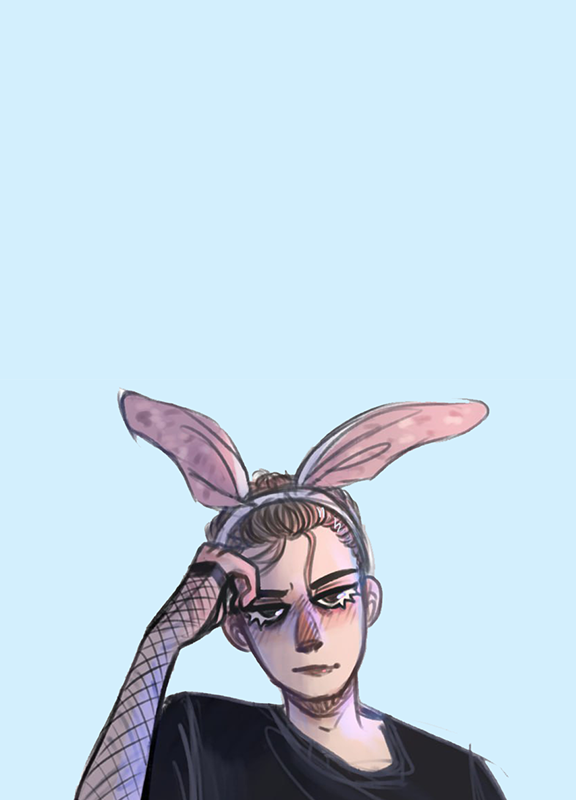
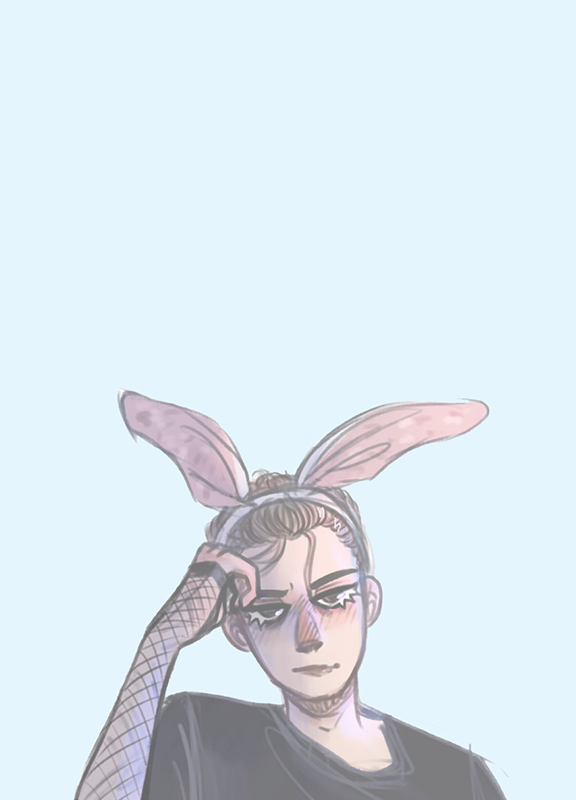
Main_bg_min changed

Changed region(s): [[0.125, 0.4688, 0.875, 1.0]]

diff --git a/css/style.min.css b/css/style.min.css
@@ -1,1 +1,1 @@
-@import"https://fonts.googleapis.com/css2?family=Poppins:wght@500;700&display=swap";*{-webkit-box-sizing:border-box;box-sizing:border-box;font-family:"Poppins",sans-serif;margin:0;padding:0;scroll-behavior:smooth}a{text-decoration:none}.container{width:1140px;margin:0 auto}.title{font-weight:700;font-size:36px;line-height:60px}.title_fz14{font-size:14px;line-height:21px}.title_fz16{font-size:16px;line-height:24px}.title_fz20{font-size:20px;line-height:30px}.title_fz48{font-size:48px;line-height:60px}.title_section-subtitle{text-align:center;padding-left:10px;position:relative;padding-left:0}.title_section-subtitle:before{content:"";z-index:-1;display:block;width:36px;height:36px;background-color:#aca5d8;border-radius:100%;position:absolute;top:-25%;left:0}.title_section-subtitle::before{left:50%;-webkit-transform:translateX(-50%);transform:translateX(-50%)}.title_section-title{text-align:center}.title_section-title::after{content:"";display:block;height:3px;width:60px;background-color:#aca5d8;margin:0 auto;margin-top:28px}.btn{background-color:#aca5d8;-webkit-box-shadow:0px 4px 4px 0px rgba(0,0,0,.15);box-shadow:0px 4px 4px 0px rgba(0,0,0,.15);padding:12px 25px;border:none;-webkit-transition:.5s all;transition:.5s all}.btn:hover{background-color:#c9c3ec}.side-panel{position:fixed;display:-webkit-box;display:-ms-flexbox;display:flex;left:50px;top:25%;z-index:1;-webkit-box-orient:vertical;-webkit-box-direction:reverse;-ms-flex-direction:column-reverse;flex-direction:column-reverse;-webkit-box-pack:justify;-ms-flex-pack:justify;justify-content:space-between;-webkit-box-align:center;-ms-flex-align:center;align-items:center;height:340px}.side-panel .side-panel__icon{width:20px;height:20px}.side-panel .side-panel__divider{height:70px;width:2px;background-color:#000}.side-panel .side-panel__text{height:150px;width:25px}.side-panel .side-panel__text span{display:block;width:150px;-webkit-transform:rotate(-90deg) translate(-30%, -395%);transform:rotate(-90deg) translate(-30%, -395%)}.promo{min-height:100vh;position:relative;background:url(../img/main_bg.jpg) center center/cover no-repeat;padding-top:205px}.promo .promo__title{margin-top:9px;width:530px}.promo .promo__subtitle{z-index:0;padding-left:10px;position:relative}.promo .promo__subtitle:before{content:"";z-index:-1;display:block;width:36px;height:36px;background-color:#aca5d8;border-radius:100%;position:absolute;top:-25%;left:0}.promo .promo__btns{margin-top:25px;display:-webkit-box;display:-ms-flexbox;display:flex;width:248px;-webkit-box-align:center;-ms-flex-align:center;align-items:center;-webkit-box-pack:justify;-ms-flex-pack:justify;justify-content:space-between}.promo .promo__btns .promo__link{color:#000;text-decoration:none;font-weight:bold}.hamburger{position:absolute;right:30px;top:20px;height:21px;display:-webkit-box;display:-ms-flexbox;display:flex;-webkit-box-orient:vertical;-webkit-box-direction:normal;-ms-flex-direction:column;flex-direction:column;-webkit-box-pack:justify;-ms-flex-pack:justify;justify-content:space-between;-webkit-box-align:end;-ms-flex-align:end;align-items:flex-end;cursor:pointer}.hamburger span{display:block;width:30px;height:3px;background-color:#151812}.hamburger span.long{width:36px}.menu{position:fixed;opacity:0;visibility:hidden;height:100vh;width:100%;top:0;left:-100%;z-index:10;-webkit-transition:all .5s;transition:all .5s}.menu .menu__block{position:relative;padding-top:140px;padding-left:75px;width:345px;height:100%;background-color:#aca5d8;z-index:10}.menu .menu__block .menu__close{position:absolute;top:24px;right:25px;cursor:pointer}.menu .menu__block .menu__list{display:-webkit-box;display:-ms-flexbox;display:flex;-webkit-box-orient:vertical;-webkit-box-direction:normal;-ms-flex-direction:column;flex-direction:column;-webkit-box-pack:justify;-ms-flex-pack:justify;justify-content:space-between;height:291px}.menu .menu__block .menu__list .menu__link{position:relative;text-transform:uppercase;font-size:24px;font-weight:700;line-height:36px}.menu .menu__block .menu__list .menu__link a{color:#fff}.menu .menu__block .menu__list .menu__link::before{content:"";display:block;position:absolute;height:15px;width:15px;border:#000 1px solid;border-radius:100%;top:50%;-webkit-transform:translateY(-50%);transform:translateY(-50%);left:-35px;-webkit-transition:.3s all;transition:.3s all}.menu .menu__block .menu__list .menu__link:hover::before{background-color:#fff;border-color:#fff}.menu .menu__social{width:90px;height:20px;display:-webkit-box;display:-ms-flexbox;display:flex;-webkit-box-pack:justify;-ms-flex-pack:justify;justify-content:space-between;position:absolute;bottom:50px;left:50%;-webkit-transform:translateX(-50%);transform:translateX(-50%)}.menu .menu__social svg{-webkit-transition:all .5s;transition:all .5s}.menu .menu__social svg:hover{scale:1.3}.menu .menu__overlay{-webkit-transition:.5s all;transition:.5s all;position:fixed;top:0;left:0;width:100%;height:100%;background-color:#fff;opacity:.75}.menu.active{opacity:1;visibility:visible;left:0}.menu.active .menu__block{left:0}.about{padding-top:120px}.about .container{display:grid;grid-template-columns:400px 570px;grid-template-rows:minmax(240px, auto) auto;-webkit-column-gap:70px;-moz-column-gap:70px;column-gap:70px;row-gap:40px}.about .container .about__img{width:100%;height:100%;-o-object-fit:cover;object-fit:cover;grid-row:1/3}.about .container .about__main .about__title{margin-top:6px}.about .container .about__main .about__title::after{content:"";display:block;background-color:#aca5d8;height:3px;width:60px;margin-top:4px}.about .container .about__main .about__subtitle{padding-left:10px;position:relative}.about .container .about__main .about__subtitle:before{content:"";z-index:-1;display:block;width:36px;height:36px;background-color:#aca5d8;border-radius:100%;position:absolute;top:-25%;left:0}.about .container .about__main .about__text{margin-top:20px;color:#000;font-size:14px;font-weight:500;line-height:20px}.about .container .about__skills{display:grid;grid-template:repeat(2, minmax(115px, auto))/repeat(2, 1fr);grid-auto-rows:1fr;-webkit-column-gap:50px;-moz-column-gap:50px;column-gap:50px}.about .container .about__skills .about__item{position:relative;padding-left:10px;position:relative}.about .container .about__skills .about__item:before{content:"";z-index:-1;display:block;width:36px;height:36px;background-color:#aca5d8;border-radius:100%;position:absolute;top:-25%;left:0}.about .container .about__skills .about__item .about__icon{position:absolute;top:15px;left:15px}.about .container .about__skills .about__item .about__name{padding-left:60px}.about .container .about__skills .about__item .about__desc{margin-top:6px;padding-left:60px;color:#000;font-size:11.4px;font-weight:500;line-height:18px}.about .container .about__skills .about__item::before{top:0}.about .container .about__skills .about__item:nth-child(2) .about__icon{left:18px}.exp{padding-top:126px}.exp .exp__wrapper{display:grid;margin-top:60px;grid-template-columns:repeat(2, 1fr);grid-template-rows:minmax(360px, auto);-webkit-column-gap:145px;-moz-column-gap:145px;column-gap:145px}.exp .exp__wrapper .exp__column{padding-left:45px}.exp .exp__wrapper .exp__column .exp__name{position:relative}.exp .exp__wrapper .exp__column .exp__name::before{content:"";display:block;height:15px;width:15px;background-color:#aca5d8;border-radius:100%;position:absolute;left:-45px;top:50%;-webkit-transform:translateY(-50%);transform:translateY(-50%)}.exp .exp__wrapper .exp__column .exp__item{margin-top:45px;width:360px;padding-left:10px;position:relative;padding-left:0;min-height:123px}.exp .exp__wrapper .exp__column .exp__item:before{content:"";z-index:-1;display:block;width:36px;height:36px;background-color:#aca5d8;border-radius:100%;position:absolute;top:-25%;left:0}.exp .exp__wrapper .exp__column .exp__item .exp__img{position:absolute;top:15px;left:15px}.exp .exp__wrapper .exp__column .exp__item .exp__type::before{content:"";display:block;position:absolute;height:1px;width:42px;background-color:#000;top:18px;left:-37px;z-index:-1}.exp .exp__wrapper .exp__column .exp__item .exp__type,.exp .exp__wrapper .exp__column .exp__item .exp__descr{padding-left:56px}.exp .exp__wrapper .exp__column .exp__item .exp__descr,.exp .exp__wrapper .exp__column .exp__item .exp__text{color:#000;font-size:12px;font-weight:500;line-height:18px}.exp .exp__wrapper .exp__column .exp__item .exp__text{margin-top:12px}.exp .exp__wrapper .exp__column .exp__item .exp__text::before{content:"";display:block;position:absolute;height:140%;width:1px;background-color:#000;left:-37.5px;top:-53px;z-index:-1}.exp .exp__wrapper .exp__column .exp__item::before{left:0;top:0;z-index:0}.skills{padding-top:120px}.skills .skills__wrapper{margin-top:60px;display:grid;grid-template-rows:270px;grid-auto-rows:270px;grid-template-columns:repeat(4, 270px);-webkit-box-pack:justify;-ms-flex-pack:justify;justify-content:space-between}.skills .skills__wrapper .skills__item{border:1px solid #000;padding:30px 30px 25px 30px}.skills .skills__wrapper .skills__item .skills__name{margin-top:20px;font-size:14px;line-height:21px}.skills .skills__wrapper .skills__item .skills__desc{color:#000;font-size:12px;font-weight:500;margin-top:15px;line-height:18px}.skills .skills__progress{margin-top:120px;display:grid;grid-template-columns:repeat(3, 350px);grid-template-rows:70px;grid-auto-rows:70px;-webkit-column-gap:45px;-moz-column-gap:45px;column-gap:45px;row-gap:30px}.skills .skills__progress .skills__bar{position:relative;padding-top:8px}.skills .skills__progress .skills__bar .skills__heading{color:#000;font-size:14px;font-weight:700;line-height:21px;padding-left:10px;position:relative}.skills .skills__progress .skills__bar .skills__heading:before{content:"";z-index:-1;display:block;width:36px;height:36px;background-color:#aca5d8;border-radius:100%;position:absolute;top:-25%;left:0}.skills .skills__progress .skills__bar .skills__heading::before{top:-8px}.skills .skills__progress .skills__bar .skills__percent{position:absolute;top:8px;left:316px;font-size:14px;font-weight:500;line-height:21px}.skills .skills__progress .skills__bar .skills__line{margin-top:27px;width:350px;height:14px;border-radius:4px;background:#e8e4de}.skills .skills__progress .skills__bar .skills__line span{display:block;height:14px;border-radius:4px;background:#aca5d8}.portfolio{padding-top:120px}.portfolio .portfolio__wrapper{margin-top:60px;display:grid;grid-template:repeat(2, 280px)/repeat(4, 280px);grid-auto-rows:280px;gap:5px}.portfolio .portfolio__wrapper .portfolio__item_horizontal{grid-column:2/4}.portfolio .portfolio__wrapper .portfolio__item_vertical{grid-row:1/3;grid-column:4/5}.portfolio .portfolio__wrapper .portfolio__item img{width:100%;height:100%;-o-object-fit:cover;object-fit:cover;-webkit-transition:all .5s;transition:all .5s;-webkit-filter:brightness(50%);filter:brightness(50%)}.portfolio .portfolio__wrapper .portfolio__item img:hover{scale:1.05;-webkit-filter:brightness(100%);filter:brightness(100%)}.price{padding-top:60px}.price .title_section-subtitle::after{content:"";display:block;height:3px;width:60px;background-color:#aca5d8;margin:0 auto;margin-top:28px}.price .title_section-subtitle::before{top:-10%}.price ul{padding:0 50px;margin-top:60px;display:grid;grid-template:repeat(3, 44px)/repeat(2, 366px);-webkit-box-pack:justify;-ms-flex-pack:justify;justify-content:space-between;row-gap:15px}.price ul li{-webkit-transition:.5s all;transition:.5s all;margin-left:25px}.price ul li .price__header{position:relative;display:-webkit-box;display:-ms-flexbox;display:flex;-webkit-box-pack:justify;-ms-flex-pack:justify;justify-content:space-between}.price ul li .price__header .price__digit{color:#000;font-size:14px;font-weight:700;line-height:21px}.price ul li .price__header::before{content:"";display:block;height:15px;width:15px;background-color:#aca5d8;border-radius:100%;position:absolute;left:-25px;top:3.5px}.price ul li .price__desc{margin-top:5px;color:#000;font-size:12px;font-weight:500;line-height:18px}.price ul li:hover{scale:1.05}.contacts{padding:120px 0 90px 0}.contacts .container{padding:0 35px 0 52px;display:grid;grid-template-columns:400px 585px;-webkit-box-pack:justify;-ms-flex-pack:justify;justify-content:space-between}.contacts .container .contacts__photo{width:100%;height:100%;-o-object-fit:cover;object-fit:cover}.contacts .container .contacts__main .title_section-subtitle{margin-top:6px;-moz-text-align-last:left;text-align-last:left;padding-left:10px}.contacts .container .contacts__main .title_section-subtitle::before{-webkit-transform:none;transform:none;left:0}.contacts .container .contacts__main .title_section-title{-moz-text-align-last:left;text-align-last:left;margin-top:6px}.contacts .container .contacts__main .title_section-title::after{margin:1px 0 0 0}.contacts .container .contacts__main .contacts__way{margin-top:20px;color:#000;font-size:14px;font-weight:700;line-height:19px}.contacts .container .contacts__main .contacts__social{margin-top:20px;height:30px;width:135px;display:-webkit-box;display:-ms-flexbox;display:flex;-webkit-box-pack:justify;-ms-flex-pack:justify;justify-content:space-between}.contacts .container .contacts__main .contacts__leave{margin-top:20px;color:#000;font-size:14px;font-weight:700;line-height:21px}.contacts .container .contacts__main .contacts__form{margin-top:30px;display:grid;grid-template:45px 190px 45px/repeat(2, 280px);-webkit-box-pack:justify;-ms-flex-pack:justify;justify-content:space-between;row-gap:30px}.contacts .container .contacts__main .contacts__form label{position:absolute;height:18px;background-color:#fff;left:20px;font-size:12px;line-height:18px;top:-9px;text-align:center;padding:0 8px}.contacts .container .contacts__main .contacts__form .contacts__input{position:relative}.contacts .container .contacts__main .contacts__form .contacts__input input{border:1px solid #000;width:100%;height:100%;padding:0 20px;color:#000;font-size:12px;font-weight:500}.contacts .container .contacts__main .contacts__form .contacts__textarea{position:relative;grid-column:1/3}.contacts .container .contacts__main .contacts__form .contacts__textarea textarea{border:1px solid #000;height:100%;width:100%;resize:none;padding:20px}.contacts .container .contacts__main .contacts__form .btn{color:#000;font-size:14px;font-weight:700;line-height:21px}.contacts .container .contacts__main .contacts__form .contacts__wrapper{grid-column:1/3;display:grid;grid-template-columns:repeat(2, auto);-webkit-column-gap:35px;-moz-column-gap:35px;column-gap:35px;-webkit-box-align:center;-ms-flex-align:center;align-items:center}.contacts .container .contacts__main .contacts__form .contacts__wrapper .contacts__privacy{display:-webkit-box;display:-ms-flexbox;display:flex}.contacts .container .contacts__main .contacts__form .contacts__wrapper .contacts__privacy input{margin-right:10px}.contacts .container .contacts__main .contacts__form .contacts__wrapper .contacts__privacy span{color:#000;font-size:12px;font-weight:500}@media(max-width: 1440px){.side-panel{display:none}}@media(max-width: 1200px){.container{max-width:960px}.about .container{grid-template-columns:400px 520px;-webkit-column-gap:50px;-moz-column-gap:50px;column-gap:50px}.skills .skills__wrapper{grid-template:repeat(2, 270px)/repeat(2, 270px);-webkit-box-pack:center;-ms-flex-pack:center;justify-content:center;gap:100px}.skills .skills__progress{grid-template:repeat(2, 70px)/repeat(2, 350px);-webkit-box-pack:center;-ms-flex-pack:center;justify-content:center}.portfolio .container .portfolio__wrapper{grid-template:repeat(2, 280px)/repeat(3, 280px);-webkit-box-pack:center;-ms-flex-pack:center;justify-content:center}.portfolio .container .portfolio__wrapper .portfolio__item_horizontal,.portfolio .container .portfolio__wrapper .portfolio__item_vertical{grid-row:unset;grid-column:unset}.contacts .container{padding:0;grid-template-columns:300px 585px}}@media(max-width: 992px){.container{max-width:720px}.about{padding-top:40px}.about .about__title{font-size:30px}.about .container{row-gap:30px;-webkit-column-gap:30px;-moz-column-gap:30px;column-gap:30px;grid-template-columns:300px 400px}.about .container .about__skills{grid-template:repeat(3, 1fr)/auto;row-gap:30px}.exp{padding-top:40px}.exp .title_section-title{margin-top:26px;font-size:28px;line-height:30px}.exp .exp__wrapper{margin-top:0px;-webkit-column-gap:20px;-moz-column-gap:20px;column-gap:20px}.exp .exp__wrapper .exp__column{margin-top:40px}.exp .exp__wrapper .exp__column .exp__item{width:unset}.skills{padding-top:40px}.skills .title_section-title{margin-top:26px;font-size:24px;line-height:36px}.skills .title_section-title::after{margin-top:15px}.skills .skills__wrapper{grid-template:auto/270px;-webkit-box-pack:center;-ms-flex-pack:center;justify-content:center;gap:20px;margin-top:20px}.skills .skills__progress{grid-template:repeat(3, 70px)/100%;justify-items:center;margin-top:40px}.portfolio .container .portfolio__wrapper{grid-template:repeat(3, 280px)/repeat(2, 280px);-webkit-box-pack:center;-ms-flex-pack:center;justify-content:center}.price .container ul{-webkit-box-pack:unset;-ms-flex-pack:unset;justify-content:unset;grid-template:auto/100%}.contacts .container{grid-template:unset;-webkit-box-pack:center;-ms-flex-pack:center;justify-content:center}.contacts .container .contacts__photo{display:none}}@media(max-width: 768px){.container{max-width:540px}.promo .promo__title{width:335px;font-size:30px;line-height:50px}.about .container{grid-template:340px auto auto/100%}.about .container .about__img{grid-row:1/2}.about .container .about__skills{row-gap:40px}.exp .exp__wrapper{grid-template:auto/100%}.exp .exp__wrapper .exp__column .exp__name{margin-bottom:35px}.exp .exp__wrapper .exp__column .exp__item{margin-top:10px}.portfolio{padding-top:47px}.portfolio .container .title_section-title{font-size:24px;line-height:36px;margin-top:26px}.portfolio .container .title_section-title::after{margin-top:15px}.portfolio .container .portfolio__wrapper{margin-top:40px;grid-template:auto/280px;-webkit-box-pack:center;-ms-flex-pack:center;justify-content:center;row-gap:20px}.portfolio .container .portfolio__wrapper .portfolio__item .portfolio__img{-webkit-filter:brightness(100%);filter:brightness(100%)}.price{padding-top:40px}.price .container .title_section-subtitle::after{margin-top:21px}.price .container ul{margin-top:20px;row-gap:20px;-webkit-box-pack:unset;-ms-flex-pack:unset;justify-content:unset;grid-template:auto/100%}.contacts{padding:40px 0 50px 0}.contacts .container .title_section-title{font-size:24px}.contacts .container .contacts__main .contacts__form{grid-template:45px 45px 145px/100%}.contacts .container .contacts__main .contacts__form .contacts__textarea{grid-column:unset}.contacts .container .contacts__main .contacts__form .contacts__wrapper{grid-column:unset;grid-template:auto/100%;row-gap:20px}.contacts .container .contacts__main .contacts__form .contacts__wrapper .btn{width:220px;margin:0 auto}.contacts .container .contacts__main .contacts__form .contacts__wrapper .contacts__privacy{grid-row:1/2;margin:0 auto;line-height:18px;width:180px}}@media(max-width: 576px){.container{width:100%;padding:0 10px}.menu .menu__block{width:260px;padding-left:55px}.promo{background:url(../img/main_bg_min.png) center center/cover no-repeat}.promo .hamburger{right:20px}.promo .promo__title{width:300px;line-height:39px}.promo .promo__btns{margin-top:32px}.about .container{row-gap:20px}.about .container .about__title{font-size:24px}.about .container .about__skills{row-gap:20px}.skills .title_section-title{width:210px;margin:0 auto;margin-top:26px}.skills .skills__progress{row-gap:40px}.skills .skills__progress .skills__bar{width:300px}.skills .skills__progress .skills__bar .skills__line{width:300px}.skills .skills__progress .skills__bar .skills__percent{left:264px}.price .container ul{padding:0}.contacts .container{padding:0 10px}}
+@import"https://fonts.googleapis.com/css2?family=Poppins:wght@500;700&display=swap";*{-webkit-box-sizing:border-box;box-sizing:border-box;font-family:"Poppins",sans-serif;margin:0;padding:0;scroll-behavior:smooth}a{text-decoration:none}.container{width:1140px;margin:0 auto}.title{font-weight:700;font-size:36px;line-height:60px}.title_fz14{font-size:14px;line-height:21px}.title_fz16{font-size:16px;line-height:24px}.title_fz20{font-size:20px;line-height:30px}.title_fz48{font-size:48px;line-height:60px}.title_section-subtitle{text-align:center;padding-left:10px;position:relative;padding-left:0}.title_section-subtitle:before{content:"";z-index:-1;display:block;width:36px;height:36px;background-color:#aca5d8;border-radius:100%;position:absolute;top:-25%;left:0}.title_section-subtitle::before{left:50%;-webkit-transform:translateX(-50%);transform:translateX(-50%)}.title_section-title{text-align:center}.title_section-title::after{content:"";display:block;height:3px;width:60px;background-color:#aca5d8;margin:0 auto;margin-top:28px}.btn{background-color:#aca5d8;-webkit-box-shadow:0px 4px 4px 0px rgba(0,0,0,.15);box-shadow:0px 4px 4px 0px rgba(0,0,0,.15);padding:12px 25px;border:none;-webkit-transition:.5s all;transition:.5s all}.btn:hover{background-color:#c9c3ec}.side-panel{position:fixed;display:-webkit-box;display:-ms-flexbox;display:flex;left:50px;top:25%;z-index:1;-webkit-box-orient:vertical;-webkit-box-direction:reverse;-ms-flex-direction:column-reverse;flex-direction:column-reverse;-webkit-box-pack:justify;-ms-flex-pack:justify;justify-content:space-between;-webkit-box-align:center;-ms-flex-align:center;align-items:center;height:340px}.side-panel .side-panel__icon{width:20px;height:20px}.side-panel .side-panel__divider{height:70px;width:2px;background-color:#000}.side-panel .side-panel__text{height:150px;width:25px}.side-panel .side-panel__text span{display:block;width:150px;-webkit-transform:rotate(-90deg) translate(-30%, -395%);transform:rotate(-90deg) translate(-30%, -395%)}.promo{min-height:100vh;position:relative;background:url(../img/main_bg.jpg) center center/cover no-repeat;padding-top:205px}.promo .promo__title{margin-top:9px;width:530px}.promo .promo__subtitle{z-index:0;padding-left:10px;position:relative}.promo .promo__subtitle:before{content:"";z-index:-1;display:block;width:36px;height:36px;background-color:#aca5d8;border-radius:100%;position:absolute;top:-25%;left:0}.promo .promo__btns{margin-top:25px;display:-webkit-box;display:-ms-flexbox;display:flex;width:248px;-webkit-box-align:center;-ms-flex-align:center;align-items:center;-webkit-box-pack:justify;-ms-flex-pack:justify;justify-content:space-between}.promo .promo__btns .promo__link{color:#000;text-decoration:none;font-weight:bold}.hamburger{position:absolute;right:30px;top:20px;height:21px;display:-webkit-box;display:-ms-flexbox;display:flex;-webkit-box-orient:vertical;-webkit-box-direction:normal;-ms-flex-direction:column;flex-direction:column;-webkit-box-pack:justify;-ms-flex-pack:justify;justify-content:space-between;-webkit-box-align:end;-ms-flex-align:end;align-items:flex-end;cursor:pointer}.hamburger span{display:block;width:30px;height:3px;background-color:#151812}.hamburger span.long{width:36px}.menu{position:fixed;opacity:0;visibility:hidden;height:100vh;width:100%;top:0;left:-100%;z-index:10;-webkit-transition:all .5s;transition:all .5s}.menu .menu__block{position:relative;padding-top:140px;padding-left:75px;width:345px;height:100%;background-color:#aca5d8;z-index:10}.menu .menu__block .menu__close{position:absolute;top:24px;right:25px;cursor:pointer}.menu .menu__block .menu__list{display:-webkit-box;display:-ms-flexbox;display:flex;-webkit-box-orient:vertical;-webkit-box-direction:normal;-ms-flex-direction:column;flex-direction:column;-webkit-box-pack:justify;-ms-flex-pack:justify;justify-content:space-between;height:291px}.menu .menu__block .menu__list .menu__link{position:relative;text-transform:uppercase;font-size:24px;font-weight:700;line-height:36px}.menu .menu__block .menu__list .menu__link a{color:#fff}.menu .menu__block .menu__list .menu__link::before{content:"";display:block;position:absolute;height:15px;width:15px;border:#000 1px solid;border-radius:100%;top:50%;-webkit-transform:translateY(-50%);transform:translateY(-50%);left:-35px;-webkit-transition:.3s all;transition:.3s all}.menu .menu__block .menu__list .menu__link:hover::before{background-color:#fff;border-color:#fff}.menu .menu__social{width:90px;height:20px;display:-webkit-box;display:-ms-flexbox;display:flex;-webkit-box-pack:justify;-ms-flex-pack:justify;justify-content:space-between;position:absolute;bottom:50px;left:50%;-webkit-transform:translateX(-50%);transform:translateX(-50%)}.menu .menu__social svg{-webkit-transition:all .5s;transition:all .5s}.menu .menu__social svg:hover{scale:1.3}.menu .menu__overlay{-webkit-transition:.5s all;transition:.5s all;position:fixed;top:0;left:0;width:100%;height:100%;background-color:#fff;opacity:.75}.menu.active{opacity:1;visibility:visible;left:0}.menu.active .menu__block{left:0}.about{padding-top:120px}.about .container{display:grid;grid-template-columns:400px 570px;grid-template-rows:minmax(240px, auto) auto;-webkit-column-gap:70px;-moz-column-gap:70px;column-gap:70px;row-gap:40px}.about .container .about__img{width:100%;height:100%;-o-object-fit:cover;object-fit:cover;grid-row:1/3}.about .container .about__main .about__title{margin-top:6px}.about .container .about__main .about__title::after{content:"";display:block;background-color:#aca5d8;height:3px;width:60px;margin-top:4px}.about .container .about__main .about__subtitle{padding-left:10px;position:relative}.about .container .about__main .about__subtitle:before{content:"";z-index:-1;display:block;width:36px;height:36px;background-color:#aca5d8;border-radius:100%;position:absolute;top:-25%;left:0}.about .container .about__main .about__text{margin-top:20px;color:#000;font-size:14px;font-weight:500;line-height:20px}.about .container .about__skills{display:grid;grid-template:repeat(2, minmax(115px, auto))/repeat(2, 1fr);grid-auto-rows:1fr;-webkit-column-gap:50px;-moz-column-gap:50px;column-gap:50px}.about .container .about__skills .about__item{position:relative;padding-left:10px;position:relative}.about .container .about__skills .about__item:before{content:"";z-index:-1;display:block;width:36px;height:36px;background-color:#aca5d8;border-radius:100%;position:absolute;top:-25%;left:0}.about .container .about__skills .about__item .about__icon{position:absolute;top:15px;left:15px}.about .container .about__skills .about__item .about__name{padding-left:60px}.about .container .about__skills .about__item .about__desc{margin-top:6px;padding-left:60px;color:#000;font-size:11.4px;font-weight:500;line-height:18px}.about .container .about__skills .about__item::before{top:0}.about .container .about__skills .about__item:nth-child(2) .about__icon{left:18px}.exp{padding-top:126px}.exp .exp__wrapper{display:grid;margin-top:60px;grid-template-columns:repeat(2, 1fr);grid-template-rows:minmax(360px, auto);-webkit-column-gap:145px;-moz-column-gap:145px;column-gap:145px}.exp .exp__wrapper .exp__column{padding-left:45px}.exp .exp__wrapper .exp__column .exp__name{position:relative}.exp .exp__wrapper .exp__column .exp__name::before{content:"";display:block;height:15px;width:15px;background-color:#aca5d8;border-radius:100%;position:absolute;left:-45px;top:50%;-webkit-transform:translateY(-50%);transform:translateY(-50%)}.exp .exp__wrapper .exp__column .exp__item{margin-top:45px;width:360px;padding-left:10px;position:relative;padding-left:0;min-height:123px}.exp .exp__wrapper .exp__column .exp__item:before{content:"";z-index:-1;display:block;width:36px;height:36px;background-color:#aca5d8;border-radius:100%;position:absolute;top:-25%;left:0}.exp .exp__wrapper .exp__column .exp__item .exp__img{position:absolute;top:15px;left:15px}.exp .exp__wrapper .exp__column .exp__item .exp__type::before{content:"";display:block;position:absolute;height:1px;width:42px;background-color:#000;top:18px;left:-37px;z-index:-1}.exp .exp__wrapper .exp__column .exp__item .exp__type,.exp .exp__wrapper .exp__column .exp__item .exp__descr{padding-left:56px}.exp .exp__wrapper .exp__column .exp__item .exp__descr,.exp .exp__wrapper .exp__column .exp__item .exp__text{color:#000;font-size:12px;font-weight:500;line-height:18px}.exp .exp__wrapper .exp__column .exp__item .exp__text{margin-top:12px}.exp .exp__wrapper .exp__column .exp__item .exp__text::before{content:"";display:block;position:absolute;height:140%;width:1px;background-color:#000;left:-37.5px;top:-53px;z-index:-1}.exp .exp__wrapper .exp__column .exp__item::before{left:0;top:0;z-index:0}.skills{padding-top:120px}.skills .skills__wrapper{margin-top:60px;display:grid;grid-template-rows:270px;grid-auto-rows:270px;grid-template-columns:repeat(4, 270px);-webkit-box-pack:justify;-ms-flex-pack:justify;justify-content:space-between}.skills .skills__wrapper .skills__item{border:1px solid #000;padding:30px 30px 25px 30px}.skills .skills__wrapper .skills__item .skills__name{margin-top:20px;font-size:14px;line-height:21px}.skills .skills__wrapper .skills__item .skills__desc{color:#000;font-size:12px;font-weight:500;margin-top:15px;line-height:18px}.skills .skills__progress{margin-top:120px;display:grid;grid-template-columns:repeat(3, 350px);grid-template-rows:70px;grid-auto-rows:70px;-webkit-column-gap:45px;-moz-column-gap:45px;column-gap:45px;row-gap:30px}.skills .skills__progress .skills__bar{position:relative;padding-top:8px}.skills .skills__progress .skills__bar .skills__heading{color:#000;font-size:14px;font-weight:700;line-height:21px;padding-left:10px;position:relative}.skills .skills__progress .skills__bar .skills__heading:before{content:"";z-index:-1;display:block;width:36px;height:36px;background-color:#aca5d8;border-radius:100%;position:absolute;top:-25%;left:0}.skills .skills__progress .skills__bar .skills__heading::before{top:-8px}.skills .skills__progress .skills__bar .skills__percent{position:absolute;top:8px;left:316px;font-size:14px;font-weight:500;line-height:21px}.skills .skills__progress .skills__bar .skills__line{margin-top:27px;width:350px;height:14px;border-radius:4px;background:#e8e4de}.skills .skills__progress .skills__bar .skills__line span{display:block;height:14px;border-radius:4px;background:#aca5d8}.portfolio{padding-top:120px}.portfolio .portfolio__wrapper{margin-top:60px;display:grid;grid-template:repeat(2, 280px)/repeat(4, 280px);grid-auto-rows:280px;gap:5px}.portfolio .portfolio__wrapper .portfolio__item_horizontal{grid-column:2/4}.portfolio .portfolio__wrapper .portfolio__item_vertical{grid-row:1/3;grid-column:4/5}.portfolio .portfolio__wrapper .portfolio__item img{width:100%;height:100%;-o-object-fit:cover;object-fit:cover;-webkit-transition:all .5s;transition:all .5s;-webkit-filter:brightness(50%);filter:brightness(50%)}.portfolio .portfolio__wrapper .portfolio__item img:hover{scale:1.05;-webkit-filter:brightness(100%);filter:brightness(100%)}.price{padding-top:60px}.price .title_section-subtitle::after{content:"";display:block;height:3px;width:60px;background-color:#aca5d8;margin:0 auto;margin-top:28px}.price .title_section-subtitle::before{top:-10%}.price ul{padding:0 50px;margin-top:60px;display:grid;grid-template:repeat(3, 44px)/repeat(2, 366px);-webkit-box-pack:justify;-ms-flex-pack:justify;justify-content:space-between;row-gap:15px}.price ul li{-webkit-transition:.5s all;transition:.5s all;margin-left:25px}.price ul li .price__header{position:relative;display:-webkit-box;display:-ms-flexbox;display:flex;-webkit-box-pack:justify;-ms-flex-pack:justify;justify-content:space-between}.price ul li .price__header .price__digit{color:#000;font-size:14px;font-weight:700;line-height:21px}.price ul li .price__header::before{content:"";display:block;height:15px;width:15px;background-color:#aca5d8;border-radius:100%;position:absolute;left:-25px;top:3.5px}.price ul li .price__desc{margin-top:5px;color:#000;font-size:12px;font-weight:500;line-height:18px}.price ul li:hover{scale:1.05}.contacts{padding:120px 0 90px 0}.contacts .container{padding:0 35px 0 52px;display:grid;grid-template-columns:400px 585px;-webkit-box-pack:justify;-ms-flex-pack:justify;justify-content:space-between}.contacts .container .contacts__photo{width:100%;height:100%;-o-object-fit:cover;object-fit:cover}.contacts .container .contacts__main .title_section-subtitle{margin-top:6px;-moz-text-align-last:left;text-align-last:left;padding-left:10px}.contacts .container .contacts__main .title_section-subtitle::before{-webkit-transform:none;transform:none;left:0}.contacts .container .contacts__main .title_section-title{-moz-text-align-last:left;text-align-last:left;margin-top:6px}.contacts .container .contacts__main .title_section-title::after{margin:1px 0 0 0}.contacts .container .contacts__main .contacts__way{margin-top:20px;color:#000;font-size:14px;font-weight:700;line-height:19px}.contacts .container .contacts__main .contacts__social{margin-top:20px;height:30px;width:135px;display:-webkit-box;display:-ms-flexbox;display:flex;-webkit-box-pack:justify;-ms-flex-pack:justify;justify-content:space-between}.contacts .container .contacts__main .contacts__leave{margin-top:20px;color:#000;font-size:14px;font-weight:700;line-height:21px}.contacts .container .contacts__main .contacts__form{margin-top:30px;display:grid;grid-template:45px 190px 45px/repeat(2, 280px);-webkit-box-pack:justify;-ms-flex-pack:justify;justify-content:space-between;row-gap:30px}.contacts .container .contacts__main .contacts__form label{position:absolute;height:18px;background-color:#fff;left:20px;font-size:12px;line-height:18px;top:-9px;text-align:center;padding:0 8px}.contacts .container .contacts__main .contacts__form .contacts__input{position:relative}.contacts .container .contacts__main .contacts__form .contacts__input input{border:1px solid #000;width:100%;height:100%;padding:0 20px;color:#000;font-size:12px;font-weight:500}.contacts .container .contacts__main .contacts__form .contacts__textarea{position:relative;grid-column:1/3}.contacts .container .contacts__main .contacts__form .contacts__textarea textarea{border:1px solid #000;height:100%;width:100%;resize:none;padding:20px}.contacts .container .contacts__main .contacts__form .btn{color:#000;font-size:14px;font-weight:700;line-height:21px}.contacts .container .contacts__main .contacts__form .contacts__wrapper{grid-column:1/3;display:grid;grid-template-columns:repeat(2, auto);-webkit-column-gap:35px;-moz-column-gap:35px;column-gap:35px;-webkit-box-align:center;-ms-flex-align:center;align-items:center}.contacts .container .contacts__main .contacts__form .contacts__wrapper .contacts__privacy{display:-webkit-box;display:-ms-flexbox;display:flex}.contacts .container .contacts__main .contacts__form .contacts__wrapper .contacts__privacy input{margin-right:10px}.contacts .container .contacts__main .contacts__form .contacts__wrapper .contacts__privacy span{color:#000;font-size:12px;font-weight:500}@media(max-width: 1440px){.side-panel{display:none}}@media(max-width: 1200px){.container{max-width:960px}.about .container{grid-template-columns:400px 520px;-webkit-column-gap:50px;-moz-column-gap:50px;column-gap:50px}.skills .skills__wrapper{grid-template:repeat(2, 270px)/repeat(2, 270px);-webkit-box-pack:center;-ms-flex-pack:center;justify-content:center;gap:100px}.skills .skills__progress{grid-template:repeat(2, 70px)/repeat(2, 350px);-webkit-box-pack:center;-ms-flex-pack:center;justify-content:center}.portfolio .container .portfolio__wrapper{grid-template:repeat(2, 280px)/repeat(3, 280px);-webkit-box-pack:center;-ms-flex-pack:center;justify-content:center}.portfolio .container .portfolio__wrapper .portfolio__item_horizontal,.portfolio .container .portfolio__wrapper .portfolio__item_vertical{grid-row:unset;grid-column:unset}.contacts .container{padding:0;grid-template-columns:300px 585px}}@media(max-width: 992px){.container{max-width:720px}.about{padding-top:40px}.about .about__title{font-size:30px}.about .container{row-gap:30px;-webkit-column-gap:30px;-moz-column-gap:30px;column-gap:30px;grid-template-columns:300px 400px}.about .container .about__skills{grid-template:repeat(3, 1fr)/auto;row-gap:30px}.exp{padding-top:40px}.exp .title_section-title{margin-top:26px;font-size:28px;line-height:30px}.exp .exp__wrapper{margin-top:0px;-webkit-column-gap:20px;-moz-column-gap:20px;column-gap:20px}.exp .exp__wrapper .exp__column{margin-top:40px}.exp .exp__wrapper .exp__column .exp__item{width:unset}.skills{padding-top:40px}.skills .title_section-title{margin-top:26px;font-size:24px;line-height:36px}.skills .title_section-title::after{margin-top:15px}.skills .skills__wrapper{grid-template:auto/270px;-webkit-box-pack:center;-ms-flex-pack:center;justify-content:center;gap:20px;margin-top:20px}.skills .skills__progress{grid-template:repeat(3, 70px)/100%;justify-items:center;margin-top:40px}.portfolio .container .portfolio__wrapper{grid-template:repeat(3, 280px)/repeat(2, 280px);-webkit-box-pack:center;-ms-flex-pack:center;justify-content:center}.price .container ul{-webkit-box-pack:unset;-ms-flex-pack:unset;justify-content:unset;grid-template:auto/100%}.contacts .container{grid-template:unset;-webkit-box-pack:center;-ms-flex-pack:center;justify-content:center}.contacts .container .contacts__photo{display:none}}@media(max-width: 768px){.container{max-width:540px}.promo .promo__title{width:335px;font-size:30px;line-height:50px}.about .container{grid-template:340px auto auto/100%}.about .container .about__img{grid-row:1/2}.about .container .about__skills{row-gap:40px}.exp .exp__wrapper{grid-template:auto/100%}.exp .exp__wrapper .exp__column .exp__name{margin-bottom:35px}.exp .exp__wrapper .exp__column .exp__item{margin-top:10px}.portfolio{padding-top:47px}.portfolio .container .title_section-title{font-size:24px;line-height:36px;margin-top:26px}.portfolio .container .title_section-title::after{margin-top:15px}.portfolio .container .portfolio__wrapper{margin-top:40px;grid-template:auto/280px;-webkit-box-pack:center;-ms-flex-pack:center;justify-content:center;row-gap:20px}.portfolio .container .portfolio__wrapper .portfolio__item .portfolio__img{-webkit-filter:brightness(100%);filter:brightness(100%)}.price{padding-top:40px}.price .container .title_section-subtitle::after{margin-top:21px}.price .container ul{margin-top:20px;row-gap:20px;-webkit-box-pack:unset;-ms-flex-pack:unset;justify-content:unset;grid-template:auto/100%}.contacts{padding:40px 0 50px 0}.contacts .container .title_section-title{font-size:24px}.contacts .container .contacts__main .contacts__form{grid-template:45px 45px 145px/100%}.contacts .container .contacts__main .contacts__form .contacts__textarea{grid-column:unset}.contacts .container .contacts__main .contacts__form .contacts__wrapper{grid-column:unset;grid-template:auto/100%;row-gap:20px}.contacts .container .contacts__main .contacts__form .contacts__wrapper .btn{width:220px;margin:0 auto}.contacts .container .contacts__main .contacts__form .contacts__wrapper .contacts__privacy{grid-row:1/2;margin:0 auto;line-height:18px;width:180px}}@media(max-width: 576px){.container{width:100%;padding:0 10px}.menu .menu__block{width:260px;padding-left:55px}.promo{background:url(../img/main_bg_min.jpg) center center/cover no-repeat}.promo .hamburger{right:20px}.promo .promo__title{width:300px;line-height:39px}.promo .promo__btns{margin-top:32px}.about .container{row-gap:20px}.about .container .about__title{font-size:24px}.about .container .about__skills{row-gap:20px}.skills .title_section-title{width:210px;margin:0 auto;margin-top:26px}.skills .skills__progress{row-gap:40px}.skills .skills__progress .skills__bar{width:300px}.skills .skills__progress .skills__bar .skills__line{width:300px}.skills .skills__progress .skills__bar .skills__percent{left:264px}.price .container ul{padding:0}.contacts .container{padding:0 10px}}

diff --git a/sass/blocks/_media.scss b/sass/blocks/_media.scss
@@ -251,7 +251,7 @@
         }
     }
     .promo {
-        background: url(../img/main_bg_min.png) center center/cover no-repeat;
+        background: url(../img/main_bg_min.jpg) center center/cover no-repeat;
         .hamburger {
             right: 20px;
         }
